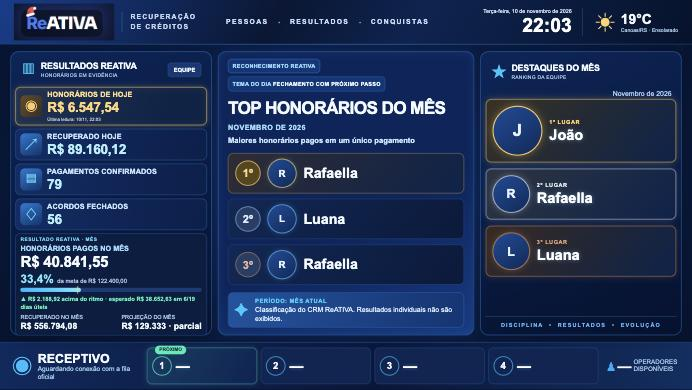
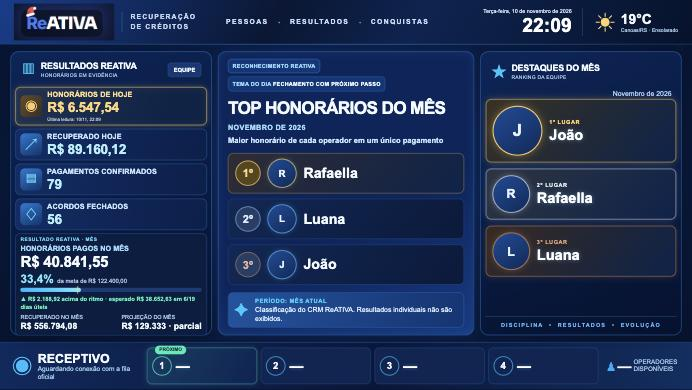
feat(tv): top honorários com 3 operadores diferentes pelo maior pagamento de cada um

Changed region(s): [[0.3642, 0.3385, 0.6373, 0.3692], [0.3945, 0.6462, 0.5159, 0.7077], [0.789, 0.0615, 0.8194, 0.0923]]

diff --git a/tv-v11/tv-destaques.js b/tv-v11/tv-destaques.js
@@ -88,7 +88,7 @@
   // resultado individual não aparece.
   const RANKINGS = [
     { chave: 'top_honorario_pagamento_mes', titulo: 'Top honorários do mês', periodo: 'mes',
-      criterio: 'Maiores honorários pagos em um único pagamento' },
+      criterio: 'Maior honorário de cada operador em um único pagamento' },
     { chave: 'top_recuperado_mes', titulo: 'Top recuperado do mês', periodo: 'mes',
       criterio: 'Maior valor recuperado acumulado no mês' },
     { chave: 'top_pagamentos_hoje', titulo: 'Top pagamentos de hoje', periodo: 'hoje',

diff --git a/docs/seguranca/tv-dados/PACOTE-M1-20261110200000.md b/docs/seguranca/tv-dados/PACOTE-M1-20261110200000.md
@@ -13,14 +13,14 @@ indisponível". Nada aplicado até a aprovação deste pacote.
 
 - arquivo: `supabase/aguardando_aprovacao/20261110200000_tv_painel_operadores.sql.pendente`
 - `query` = conteúdo integral do arquivo, byte a byte (inclui a quebra de linha final)
[2 lines of base64/hex data omitted]
 - rollback: `supabase/aguardando_aprovacao/20261110200000_tv_painel_operadores.rollback.sql` (`drop function`)
 - prova: job de CI `tv painel operadores — portão, regras, centavos e rollback (postgres isolado)`
 
 Linha a mesclar em `docs/seguranca/migracoes-aprovadas.tsv` (PR própria, com a janela que a Amanda escolher — validade padrão de 30 min):
 
 ```
-ahattpqrjmhkzsmnbdzs	20261110200000_tv_painel_operadores	0cb0289aaa02be2af4abccfc3a1b08bd191d9b2f97bb0750d68f73d01b6ce4ca	amanda.seibel@aelbra.com.br	<expira_em UTC>	pendente
+ahattpqrjmhkzsmnbdzs	20261110200000_tv_painel_operadores	7a75f2f296dc65feef2e8573b87110380a237e4359fa2f54c8147a55c2f37192	amanda.seibel@aelbra.com.br	<expira_em UTC>	pendente
 ```
 
 O que a função faz: `SECURITY DEFINER`, `search_path=public`, `STABLE`; portão
@@ -67,7 +67,7 @@ subtítulo. Só os totais da **equipe ReATIVA** levam valor.
 | Resultados de hoje (esquerda, "RESULTADOS REATIVA · EQUIPE") | honorários, recuperado, pagamentos e acordos da equipe | — | sim, total da ReATIVA |
 | Honorários pagos no mês (esquerda, "RESULTADO REATIVA · MÊS") | honorários, % da meta, ritmo, recuperado, projeção | — | sim, total da ReATIVA |
 | Destaques do mês (direita) — pódio | 1º ouro, 2º prata, 3º bronze: nome e foto | honorário pago **acumulado no mês** | não |
-| Top honorários do mês | posição, foto, nome | **maior honorário em um único pagamento** (o operador pode repetir) | não |
+| Top honorários do mês | posição, foto, nome — 3 operadores **diferentes** | **maior honorário de cada operador em um único pagamento** | não |
 | Top recuperado do mês | posição, foto, nome | recuperado **acumulado no mês** | não |
 | Top pagamentos de hoje | posição, foto, nome | quantidade de pagamentos confirmados hoje | não |
 | Top acordos de hoje | posição, foto, nome | quantidade de acordos fechados hoje | não |
